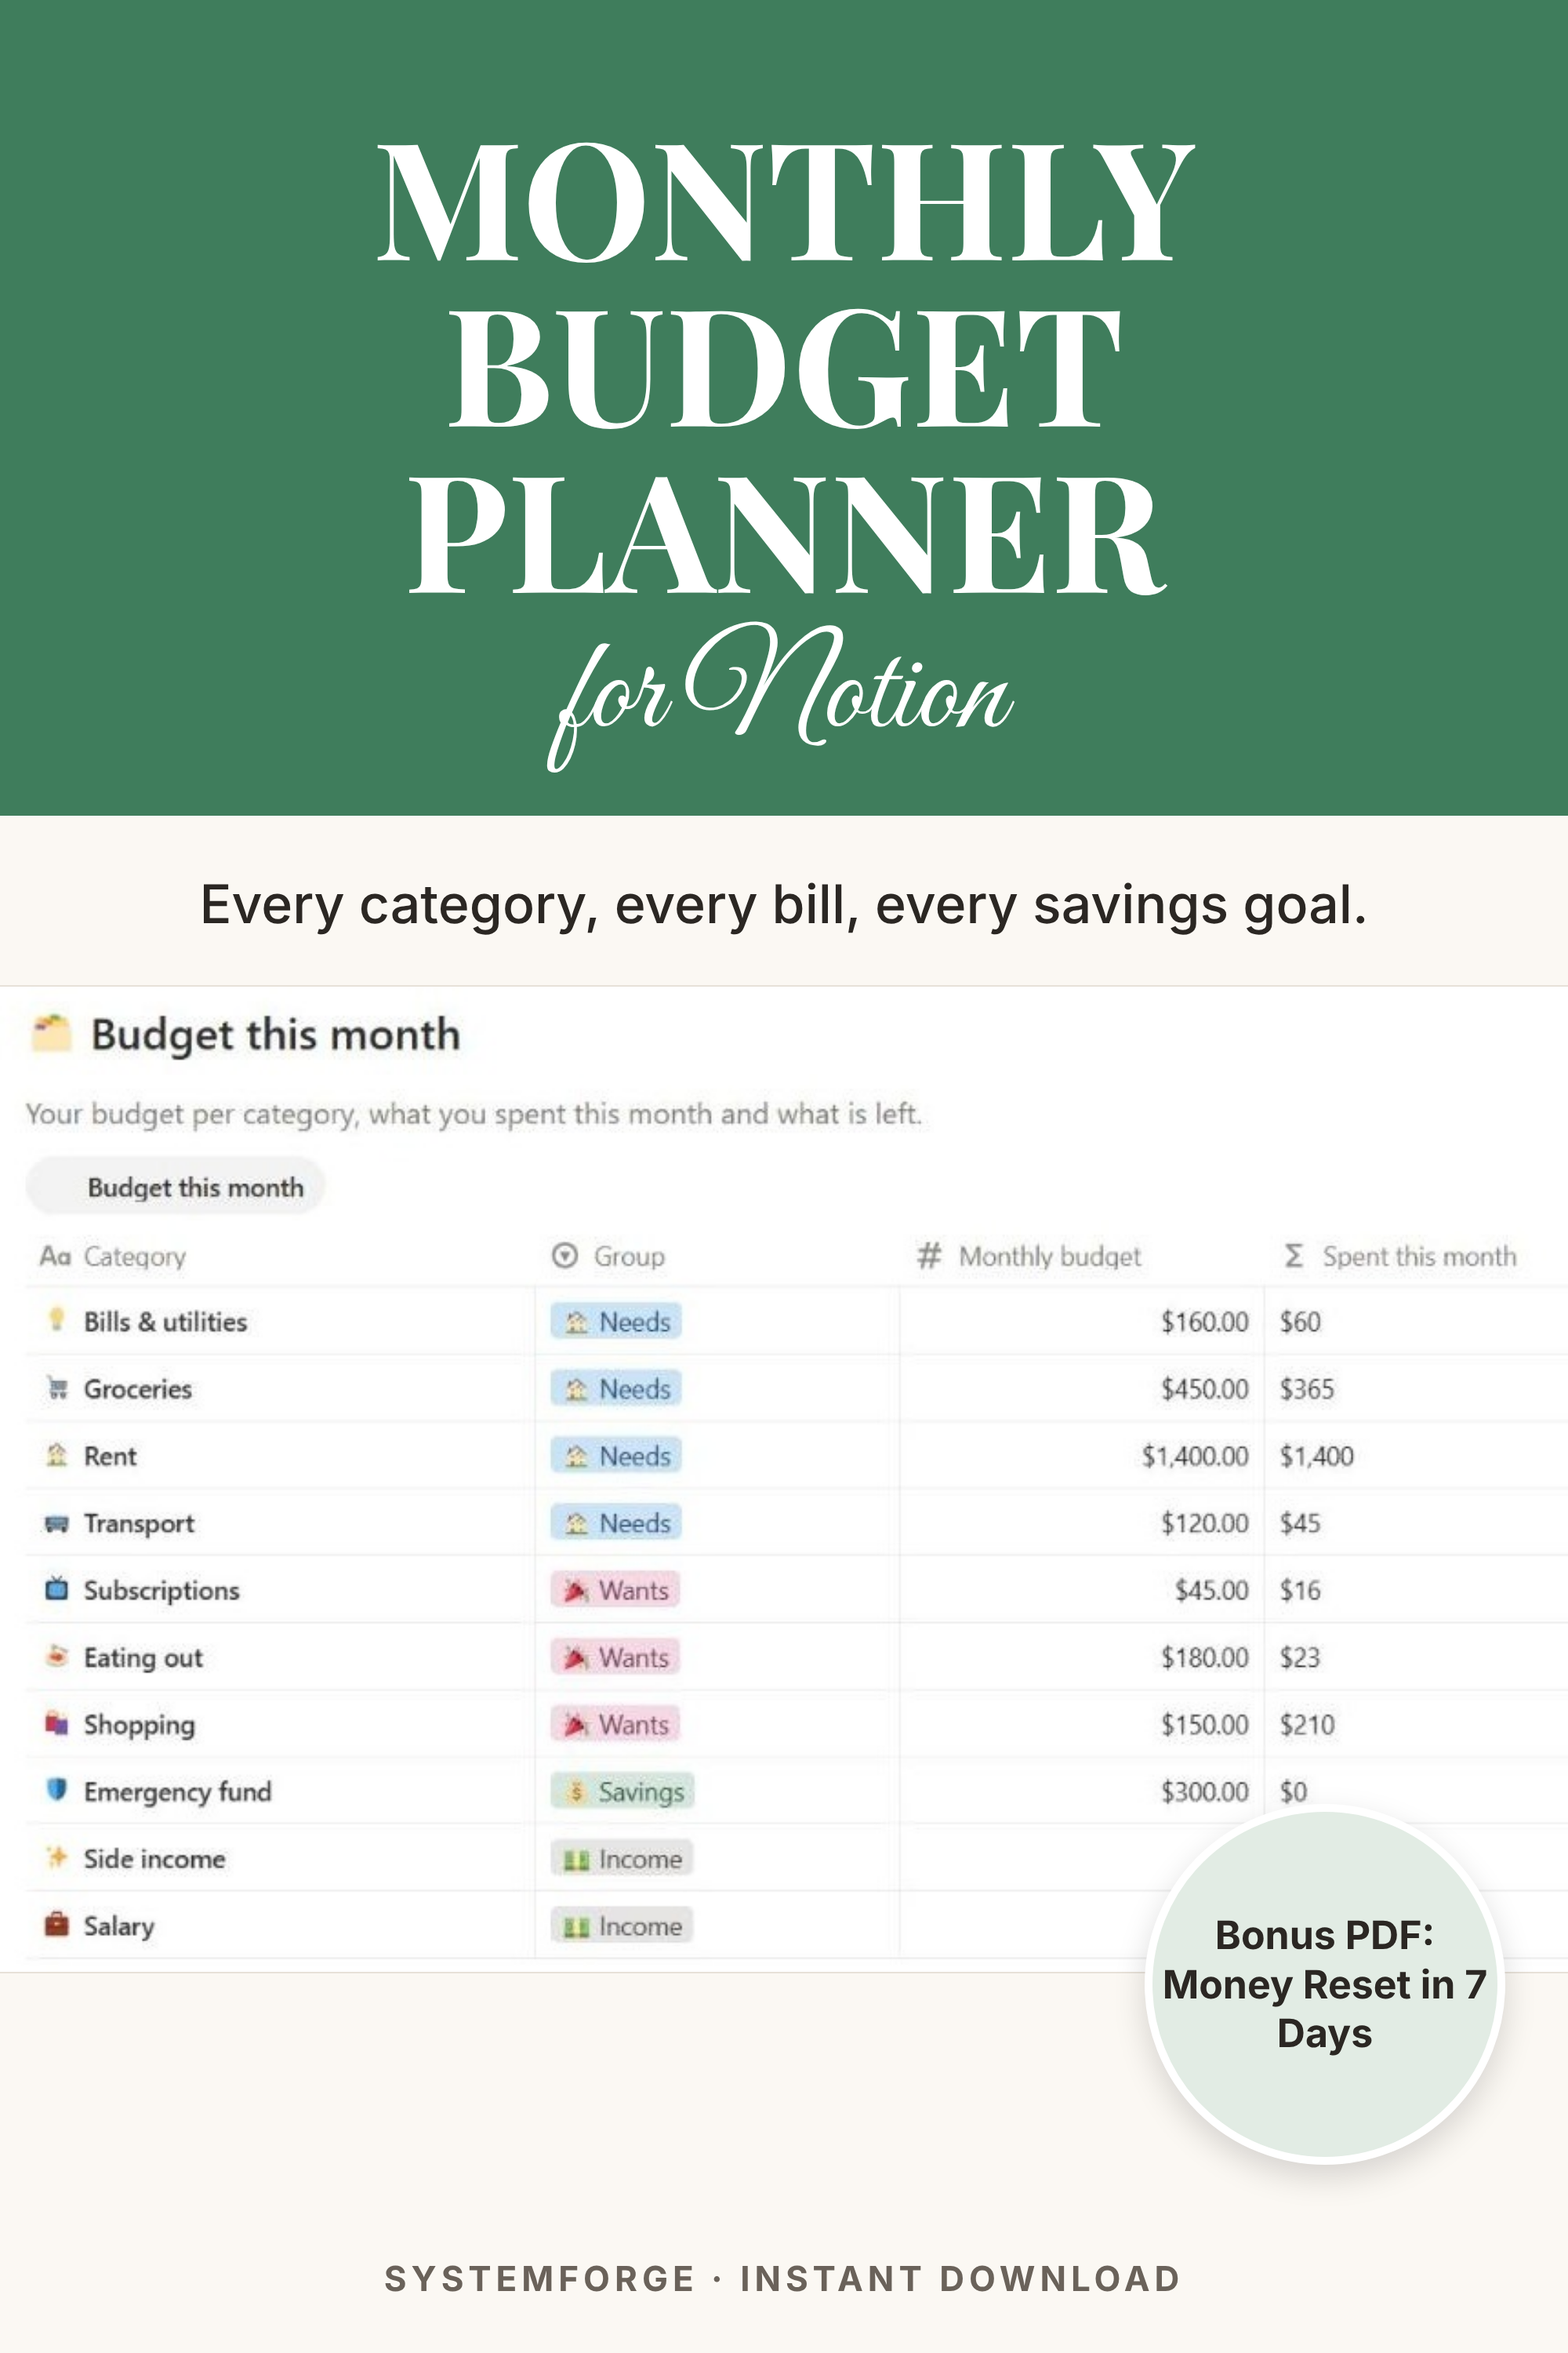
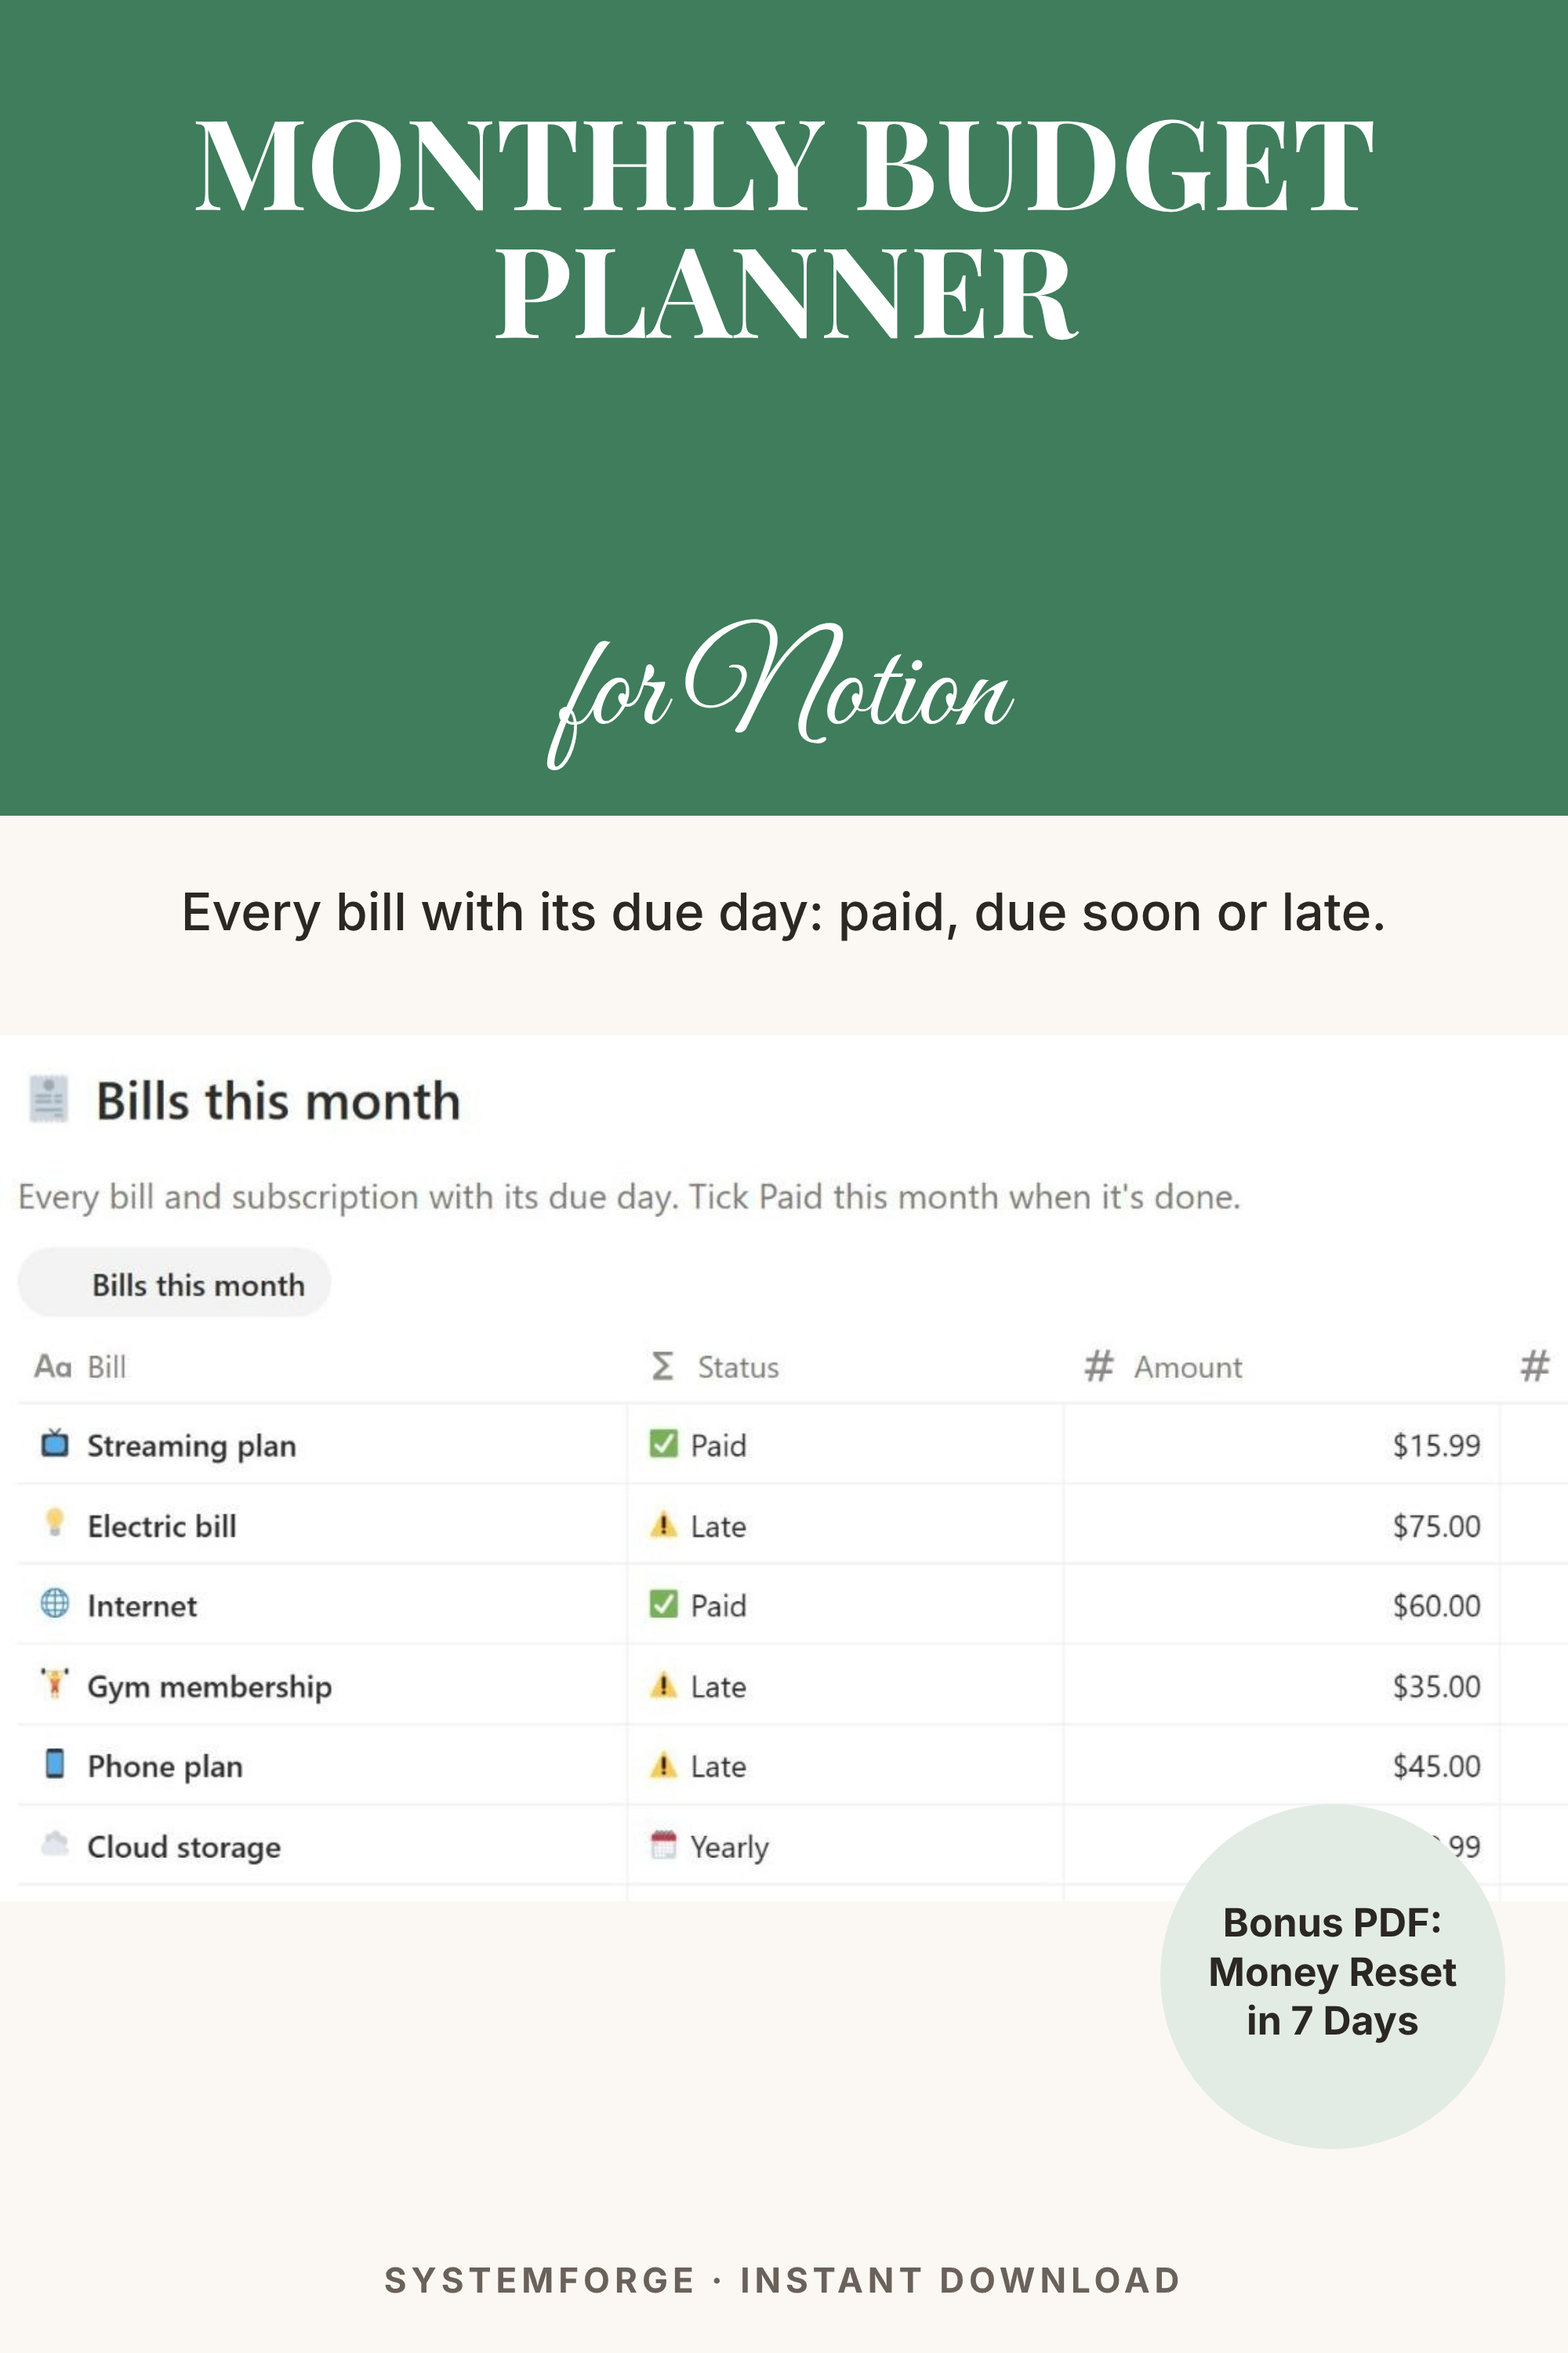
Pins v5 batch 4: sharp habit/budget + travel, job, second brain, life, meal, 2 listicles
Claude-Session: https://claude.ai/code/session_01SESvdWYowsCKTnCuHXDcbL

diff --git a/generator/v3/canva_v5.py b/generator/v3/canva_v5.py
@@ -82,6 +82,73 @@ SETS = {'mjl': {
  'life-b2': dict(p='life', style='b', title='GOAL TRACKER', kicker='for Notion',
                  sub='Not started, in progress, done. See every goal at a glance.', badge='Bonus PDF:\n90-Day Goal\nWorkbook',
                  crops=[('life-goals', (0, 0, 1536, 973))]),
+},
+'b2': {
+ 'habit-a1': dict(p='habit', style='a', kicker='NOTION TEMPLATE', title='Habit Tracker',
+                  sub='A bar for every habit, your best habit and your perfect days.',
+                  crops=[('habit-monthly', (0, 0, 1000, 935))]),
+ 'habit-b1': dict(p='habit', style='b', title='MONTHLY HABIT TRACKER', kicker='for Notion',
+                  sub='Every habit gets a bar for the month. Your score fills in by itself.', badge='Bonus PDF:\n30-Day\nHabit Reset',
+                  crops=[('habit-monthly', (0, 0, 1000, 935))]),
+ 'budget-a1': dict(p='budget', style='a', kicker='NOTION BUDGET TEMPLATE', title='Monthly Budget',
+                   sub='Your budget per category, what you spent and what is left.',
+                   crops=[('budget-cats', (0, 0, 1150, 865))]),
+ 'budget-b1': dict(p='budget', style='b', title='MONTHLY BUDGET PLANNER', kicker='for Notion',
+                   sub='Every bill with its due day: paid, due soon or late.', badge='Bonus PDF:\nMoney Reset\nin 7 Days',
+                   crops=[('budget-bills', (0, 0, 1150, 635)), ('budget-cats', (0, 0, 1150, 865))]),
+ 'budget-a2': dict(p='budget', style='a', kicker='SAVINGS TRACKER', title='Savings Goals',
+                   sub='How much to save each month to hit every goal on time.',
+                   crops=[('budget-savings', (0, 0, 1000, 730))]),
+ 'budget-a3': dict(p='budget', style='a', kicker='BILL TRACKER', title='Bill Tracker',
+                   sub='Every bill and subscription with its due day. Tick Paid when it is done.',
+                   crops=[('budget-bills', (0, 0, 1150, 635))]),
+ 'budget-b2': dict(p='budget', style='b', title='BUDGET PLANNER TEMPLATE', kicker='for Notion',
+                   sub='Categories, bills, savings goals and a debt payoff plan on one page.', badge='Bonus PDF:\nMoney Reset\nin 7 Days',
+                   crops=[('budget-savings', (0, 0, 1000, 730))]),
+ 'travel-a1': dict(p='travel', style='a', kicker='NOTION TEMPLATE', title='Travel Planner',
+                   sub='Countdown, budget left and packing progress for every trip.',
+                   crops=[('travel-trips', (0, 0, 1000, 730))]),
+ 'travel-b1': dict(p='travel', style='b', title='TRAVEL ITINERARY PLANNER', kicker='for Notion',
+                   sub='Plans not booked yet, with the date. Tick Booked and they leave the list.',
+                   crops=[('travel-book', (0, 0, 1150, 635))]),
+ 'travel-b2': dict(p='travel', style='b', title='VACATION PLANNER', kicker='for Notion',
+                   sub='Every trip with its countdown, budget left and packing bar.',
+                   crops=[('travel-trips', (0, 0, 1000, 730))]),
+ 'job-a1': dict(p='job', style='a', kicker='JOB APPLICATION TRACKER', title='Job Tracker',
+                sub='Every job from Wishlist to Offer, with the next step on each card.',
+                crops=[('job-pipeline', (0, 0, 920, 815))]),
+ 'job-b1': dict(p='job', style='b', title='JOB SEARCH TRACKER', kicker='for Notion',
+                sub='Drag a card when a company answers. The next step shows on every job.',
+                crops=[('job-pipeline', (0, 0, 920, 815))]),
+ 'sb-a1': dict(p='sb', style='a', kicker='NOTION TEMPLATE', title='Second Brain',
+               sub='Goals, projects, tasks and notes in one Notion workspace.',
+               crops=[('sb-projects', (0, 0, 920, 635)), ('sb-goals', (0, 0, 1150, 685))]),
+ 'sb-a2': dict(p='sb', style='a', kicker='PROJECT TRACKER', title='My Projects',
+               sub='Drag a card when a project moves. The bar fills up as you tick its tasks.',
+               crops=[('sb-projects', (0, 0, 920, 635))]),
+ 'sb-b1': dict(p='sb', style='b', title='ALL-IN-ONE DASHBOARD', kicker='for Notion',
+               sub='Goals with progress bars, projects and tasks, linked together.',
+               crops=[('sb-goals', (0, 0, 1150, 685))]),
+ 'life-a3': dict(p='life', style='a', kicker='NOTION TEMPLATE', title='Life Planner',
+                 sub='Goals with progress bars and a vision board on one page.',
+                 crops=[('life-goals', (0, 0, 1536, 973)), ('life-vision', (0, 0, 1345, 600))]),
+ 'meal-a3': dict(p='meal', style='a', kicker='MEAL PLAN IDEAS', title='Weekly Meal Plan', tsize=112,
+                 sub='Breakfast, lunch and dinner for the next 7 days. Tick Cooked when it is done.',
+                 crops=[('meal-next7', (0, 0, 1160, 1208))]),
+ 'shop-c1': dict(p='shop', style='c', kicker='NOTION TEMPLATE IDEAS', title='Notion template ideas<br>for 2027',
+                 foot='Simple Notion templates for every part of your life.',
+                 tiles=[('habit-monthly', (12, 238, 490, 472), 'Habit Tracker'),
+                        ('budget-savings', (12, 240, 490, 472), 'Budget Planner'),
+                        ('meal-recipes', (16, 273, 432, 503), 'Meal Planner'),
+                        ('travel-trips', (12, 238, 490, 472), 'Travel Planner'),
+                        ('job-pipeline', (25, 295, 441, 532), 'Job Tracker')]),
+ 'shop-c2': dict(p='shop', style='c', kicker='AESTHETIC NOTION TEMPLATES', title='Aesthetic Notion<br>templates to try',
+                 foot='Real pages, real photos. Duplicate and start in minutes.',
+                 tiles=[('life-vision', (16, 302, 658, 596), 'Vision board'),
+                        ('journal-entries', (16, 302, 432, 506), 'Daily journal'),
+                        ('travel-trips', (515, 238, 993, 472), 'Trip countdown'),
+                        ('sb-projects', (25, 295, 441, 532), 'Project board'),
+                        ('habit-monthly', (515, 238, 993, 472), 'Monthly habits')]),
 }}
 
 
@@ -123,7 +190,7 @@ def p(x, y, w, size, text, color, extra=''):
 
 
 def page(pid, s, sha):
-    pr = M.PROD[s['p']]; c, acc = pr['color'], pr['accent']
+    pr = M.PROD.get(s['p'], {'sb': {'color': '#EDE7DD', 'accent': '#6B5B4B'}, 'shop': {'color': '#F1E9DE', 'accent': '#A0643C'}}.get(s['p'])); c, acc = pr['color'], pr['accent']
     imgs = ''.join(f'<img src="{RAW.format(sha=sha, f=cname(n, box))}" style="position:absolute;left:{x}px;top:{y}px;width:{w}px;height:{h}px">'
                    for n, box, x, y, w, h in layout(s))
     foot = p(0, 1440, 1000, 22, 'SYSTEMFORGE · INSTANT DOWNLOAD', MUT, 'font-weight:700;letter-spacing:3px')
@@ -142,10 +209,10 @@ def page(pid, s, sha):
         imgs += p(80, 1338, 840, 29, s['foot'], MUT, 'line-height:1.35')
     else:
         head = (f'<div style="position:absolute;left:0;top:0;width:1000px;height:520px;background:{acc}"></div>'
-                + p(60, 70, 880, 104, s['title'], '#FFFFFF', "font-family:'Playfair Display',serif;font-weight:700;line-height:1.02")
+                + p(60, 70 if len(s['title']) <= 18 else 60, 880, 104 if len(s['title']) <= 18 else 80, s['title'], '#FFFFFF', "font-family:'Playfair Display',serif;font-weight:700;line-height:1.02")
                 + p(0, 390, 1000, 84, s['kicker'], '#FFFFFF', "font-family:'Great Vibes',cursive")
                 + p(60, 560, 880, 33, s['sub'], INK, 'line-height:1.3'))
-        badge = (f'<div style="position:absolute;left:740px;top:1150px;width:220px;height:220px;border-radius:110px;background:{c}"></div>'
+        badge = '' if not s.get('badge') else (f'<div style="position:absolute;left:740px;top:1150px;width:220px;height:220px;border-radius:110px;background:{c}"></div>'
                  + p(740, 1210, 220, 25, s['badge'].replace('\n', '<br>'), INK, 'font-weight:700;line-height:1.25'))
         imgs += badge
     return (f'<div data-document-role="page" data-label="{pid}" style="position:relative;width:1000px;height:1500px;overflow:hidden;background:{BG}">'
